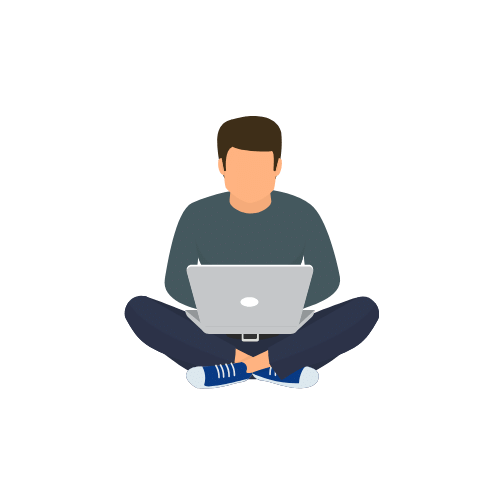
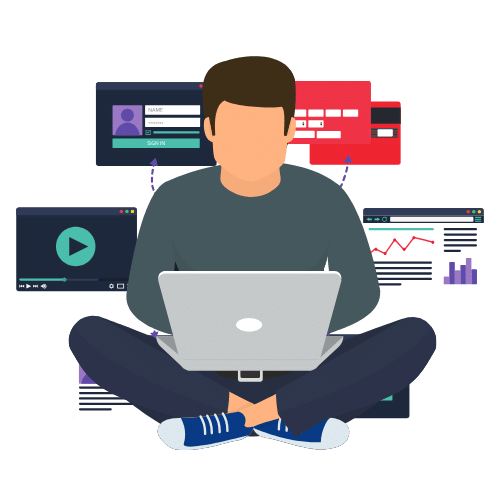
done about section

diff --git a/src/components/About/About.jsx b/src/components/About/About.jsx
@@ -1,0 +1,29 @@
+import {getImageUrl} from "../../utils"
+import styles from "./About.module.css"
+
+const About = () => {
+  return (
+    <section className={styles.sectionAbout} id="about">
+        <div className={styles.container}>
+            <div className={styles.about}>
+                <div className={styles.content}>
+                    <h3>ABOUT</h3>
+                    <h1>Web Developer from Tagaytay City, Philippines.</h1>
+                    <p>
+                        Hi, my name is Richard an aspiring web developer enthusiasthic about creating beautiful and
+                        functional web applications with a solid foundation in HTML, CSS,
+                        JavaScript, PHP, and Laravel. Recently, I've been diving into the world of
+                        React to build dynamic and interactive web interfaces. I'm always eager to
+                        learn new technologies and expand my skills to create innovative and
+                        impactful websites.
+                    </p>
+                </div>
+                <div>
+                    <img className={styles.aboutImg} src={getImageUrl('about/aboutImg.png')} alt="me sitting with a computer art" />
+                </div>
+            </div>
+        </div>
+    </section>
+  )
+}
+export default About

diff --git a/src/components/About/About.module.css b/src/components/About/About.module.css
@@ -1,0 +1,58 @@
+@import "../../vars.css";
+
+.sectionAbout{
+    padding-top: 50px;
+}
+
+.container{
+    position: relative;
+    margin-left: 10%;
+    margin-right: 10%;
+    padding: 50px;
+}
+.about{
+    display: flex;
+}
+.content{
+    display: flex;
+    height: 100%;
+    flex-direction: column;
+    gap: 20px;
+    align-items: start;
+    align-content: center;
+    justify-content: center;
+    padding: 30px;
+}
+.content h3{
+    font-size: 2rem;
+    font-weight: 600;
+    color: var(--color-primary);
+    font-family: var(--font-roboto);
+    margin-bottom: 40px;
+}
+.content h1{
+    font-size: 3rem;
+    font-weight: 900;
+    font-family: var(--font-roboto);
+    margin-bottom: 20px;
+}
+.content p{
+    font-size: 1.25rem;
+    font-family: var(--font-roboto);
+    color: var(--color-secondary);
+}
+@media screen and (max-width:830px){
+    .aboutImg{
+        display: none;
+    }
+    .content h3{
+        width: 100%;
+        text-align: center;
+    }
+    .content h1{
+        text-align: center;
+    }
+    .content p{
+        text-align: center;
+    }
+}

diff --git a/src/components/Hero/Hero.module.css b/src/components/Hero/Hero.module.css
@@ -4,7 +4,7 @@
 .sectionHero{
     padding-top: 180px;
     background-color: var(--color-tertiary);
-    padding-bottom: 50px;
+    padding-bottom: 70px;
 }
 .parentContainer{
     display: flex;
@@ -144,5 +144,8 @@
         border-bottom: 3px solid var(--color-dark);
         margin-bottom: 20px;
         margin-right: 0px;
+    }
+    .title{
+        text-align: center;
     }
 }

diff --git a/src/App.jsx b/src/App.jsx
@@ -1,4 +1,5 @@
 import styles from "./App.module.css"
+import About from "./components/About/About"
 import Hero from "./components/Hero/Hero"
 import Navbar from "./components/Navbar/Navbar"
 
@@ -8,6 +9,7 @@ const App = () => {
     <div className={styles.app}>
       <Navbar />
       <Hero />
+      <About />
     </div>
   )
 }
